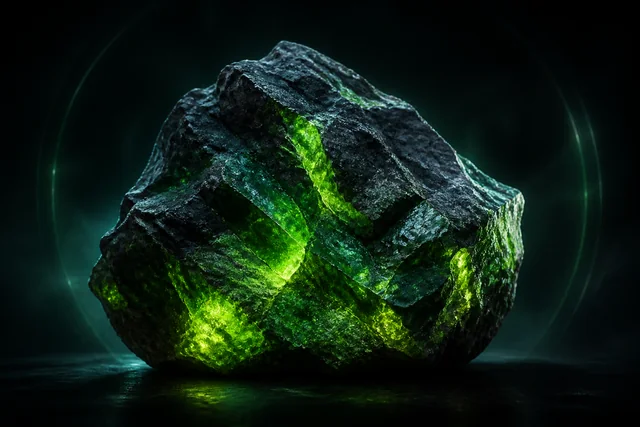
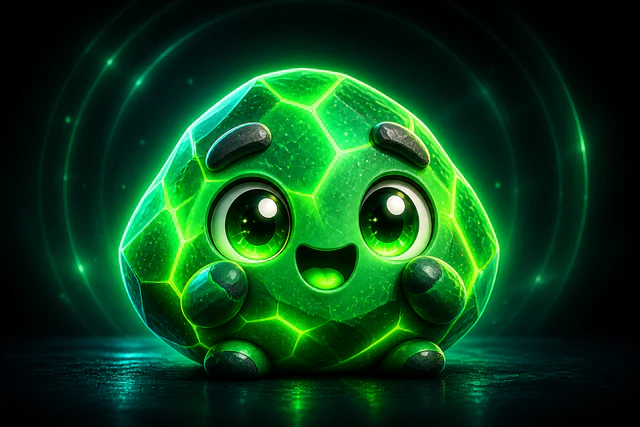
Make Uranium mascot cuter

diff --git a/js/features/changelog.js b/js/features/changelog.js
@@ -15,7 +15,8 @@ export const CHANGELOG = [
             { type: '🔧', text: 'Tezos X readiness now keeps runtime, Previewnet, tooling, proposal, Etherlink governance, and production rollout separate, so an Octez or EVM-node release can never masquerade as mainnet progress' },
             { type: '🔧', text: 'Milestone refreshes now fall back to the official Octez archive when the primary RPC has pruned an exact historical cycle-boundary block' },
             { type: '⚡', text: 'Release forecasts load from one same-origin daily receipt, preserve bounded last-good data, refresh only in visible tabs, turn visibly stale, and disappear after their review window expires' },
-            { type: '🎨', text: 'Release Radar now keeps Live Pulse compact while a dedicated full-screen briefing opens all three release lanes, six Tezos X gates, dependency boundaries, recent artifacts, status history, evidence, and methodology' }
+            { type: '🎨', text: 'Release Radar now keeps Live Pulse compact while a dedicated full-screen briefing opens all three release lanes, six Tezos X gates, dependency boundaries, recent artifacts, status history, evidence, and methodology' },
+            { type: '🎨', text: 'Uranium now greets the market through a cute cartoon rock mascot with a vivid emerald-energy glow, while its caption keeps the artwork clearly separate from literal U3O8 yellowcake' }
         ]
     },
     {

diff --git a/js/features/uranium-chamber.js b/js/features/uranium-chamber.js
@@ -546,9 +546,9 @@ function heroPicture(className = '') {
         <figure class="uranium-core-stage ${className}">
             <picture>
                 <source srcset="/assets/uranium/uranium-core-640.webp 640w, /assets/uranium/uranium-core.webp 1280w" sizes="(max-width: 700px) 92vw, 46vw" type="image/webp">
-                <img src="/assets/uranium/uranium-core.webp" width="1280" height="853" loading="lazy" decoding="async" alt="Stylized illustration of a dark mineral specimen with glowing green crystalline veins.">
+                <img src="/assets/uranium/uranium-core.webp" width="1280" height="853" loading="lazy" decoding="async" alt="Cute cartoon uranium-rock mascot glowing with vivid emerald-green energy.">
             </picture>
-            <figcaption>Stylized core sample · physical U3O8 is yellowcake concentrate, not a glowing rock.</figcaption>
+            <figcaption>Stylized uranium mascot · physical U3O8 is yellowcake concentrate, not a glowing rock.</figcaption>
         </figure>
     `;
 }
